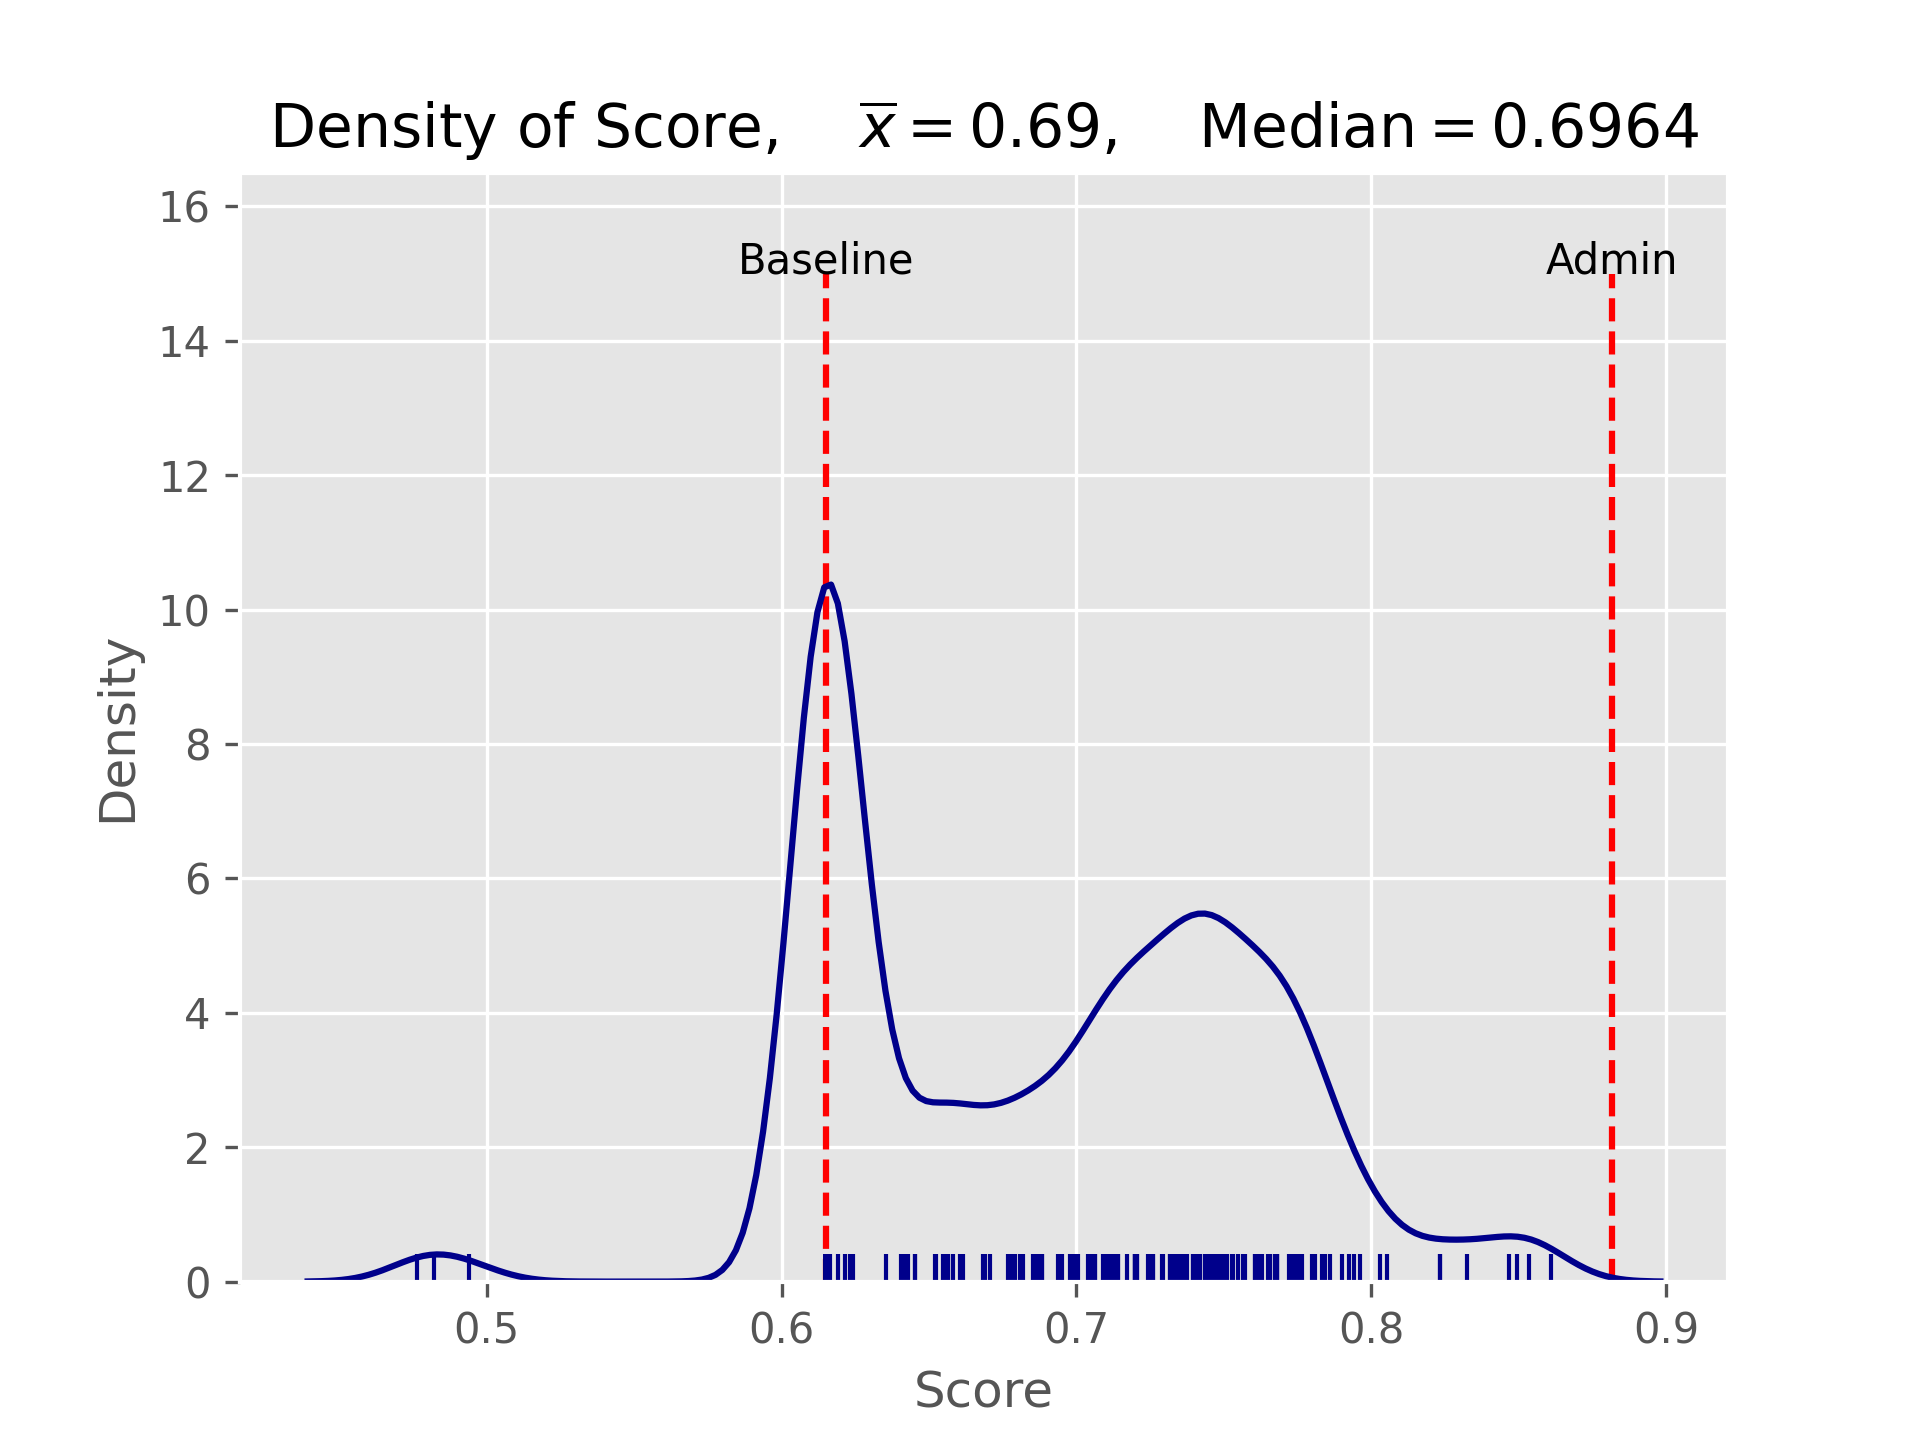
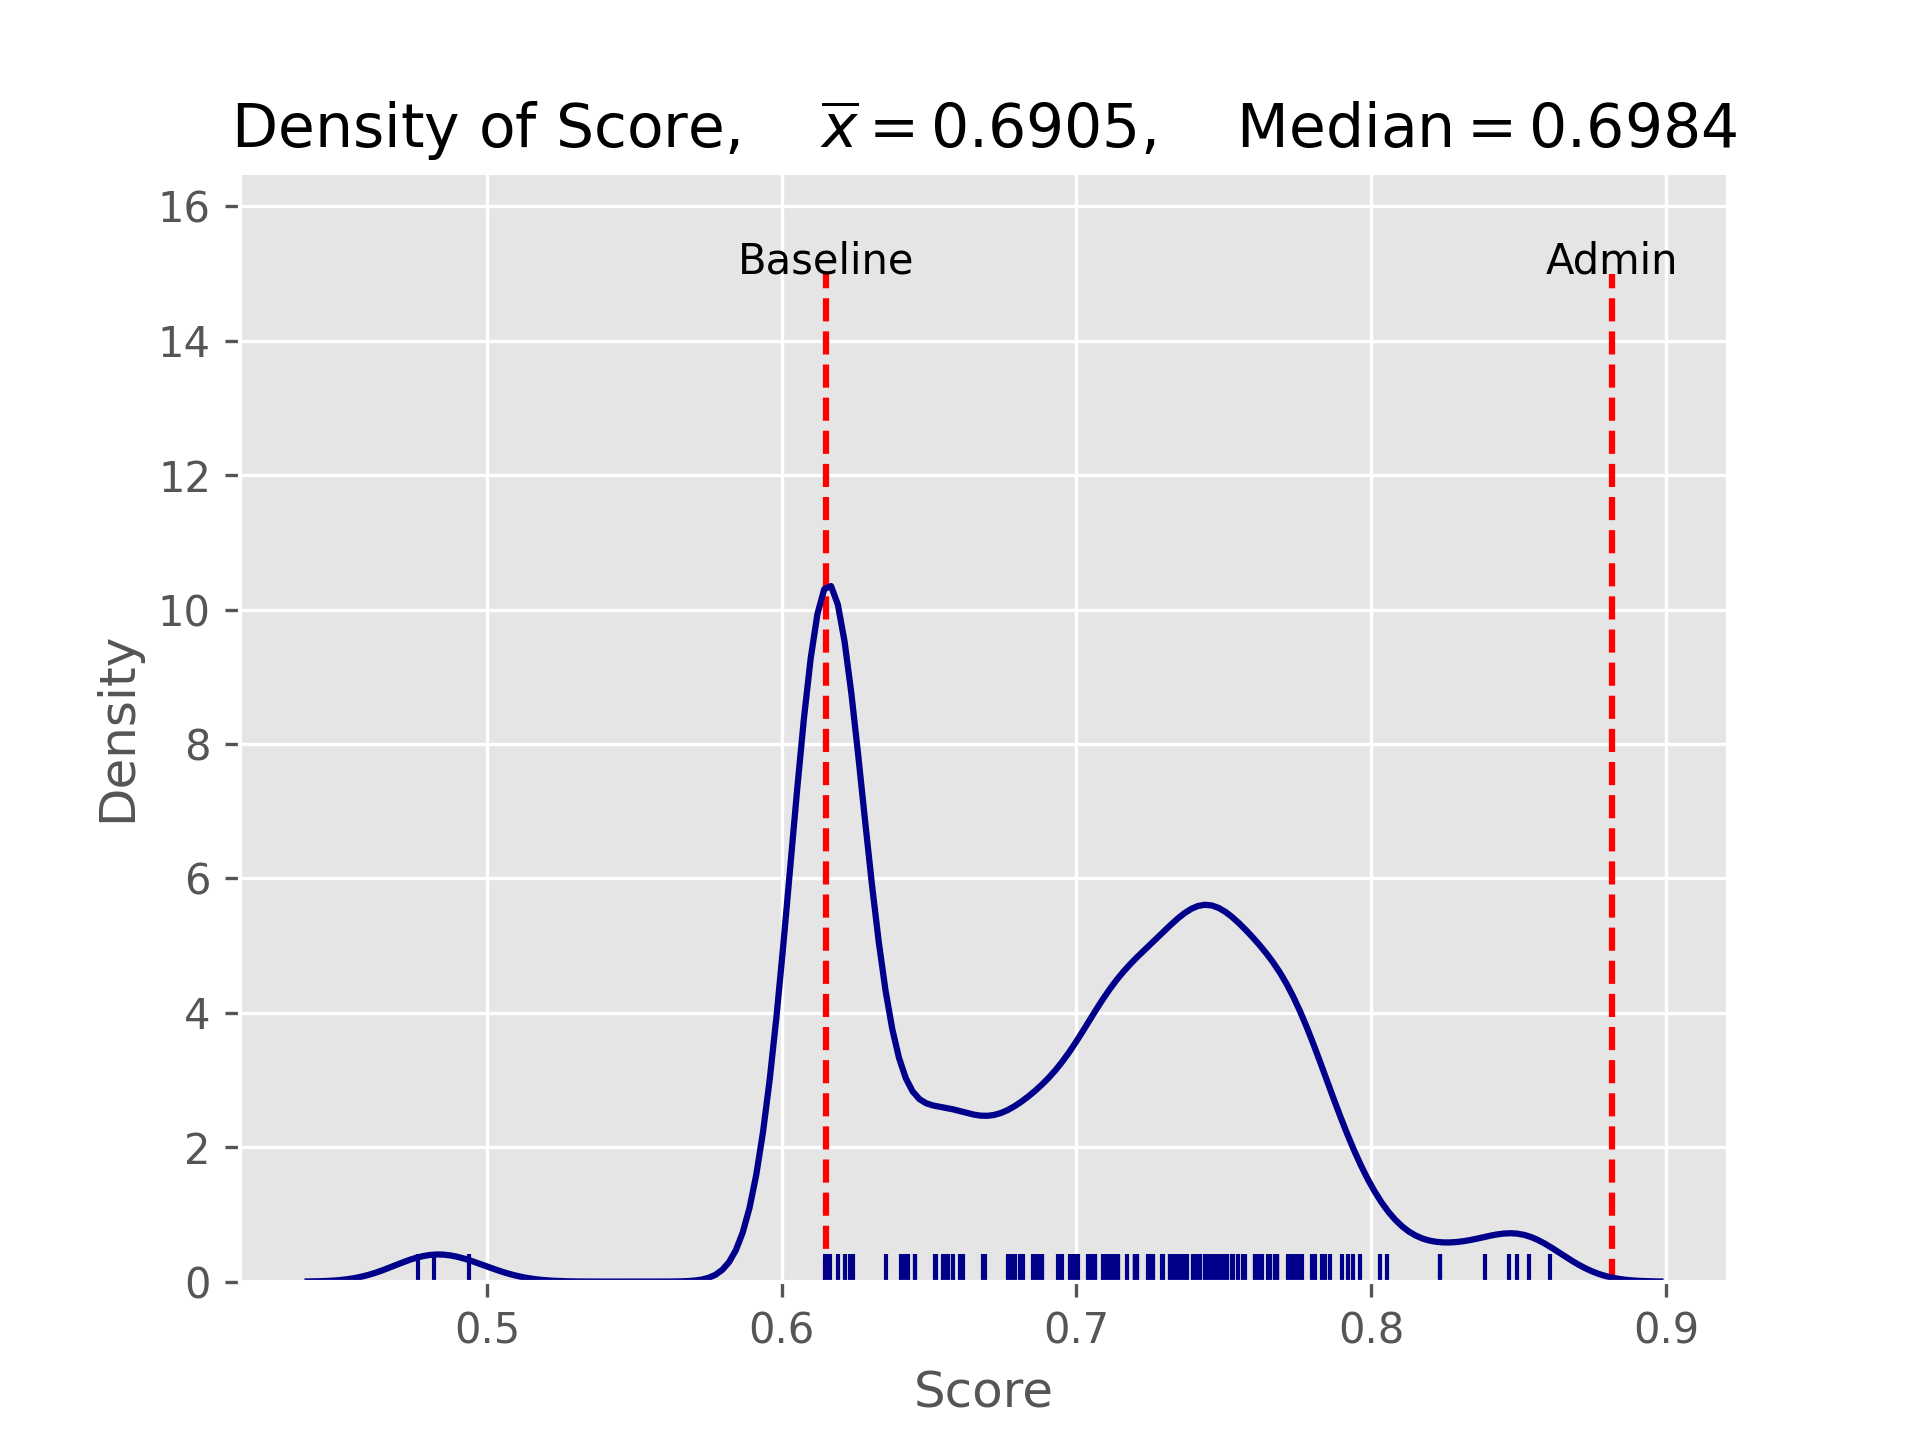
Updated: 2021-05-16 19:52:52

diff --git a/README.md b/README.md
@@ -1,6 +1,6 @@
 # ETC3250 Kaggle score
 
-**Last updated: May 16, 2021 18:15:16**
+**Last updated: May 16, 2021 19:52:52**
 
 ## WARNING: Your final grade is based on your score on the `private leaderboard`. 
 
@@ -24,13 +24,13 @@ Number of teams: 202
 |2|6749482|dzho37|15 May 13:32:47|0.85342|13|
 |3|6754507|Not Admin|16 May 12:25:47|0.84946|13|
 |4|6765261|Real Admin @zyan0056|16 May 16:16:12|0.84663|13|
-|5|6767591|carljohnsonCJ|15 May 18:45:34|0.83248|13|
+|5|6767591|carljohnsonCJ|16 May 19:46:00|0.83870|13|
 |6|6754716|efre0004|15 May 14:41:08|0.82342|13|
 |7|6754129|ghan0002|16 May 15:42:02|0.82342|13|
 |8|6754828|mwjon5|15 May 18:05:18|0.80531|13|
 |9|6749705|zxio0011|16 May 10:09:25|0.80305|13|
 |10|6757633|lbao0008|16 May 16:39:19|0.79626|12|
-|11|6750698|yjia0021|16 May 11:29:39|0.79400|12|
+|11|6750698|yjia0021|16 May 19:17:41|0.79400|12|
 |12|6761625|Le-Hao Jian|15 May 23:01:20|0.79230|12|
 |13|6755904|wtan0062|16 May 15:36:18|0.79003|12|
 |14|6768738|iamnotaduck|11 May 23:10:49|0.78607|12|
@@ -58,83 +58,83 @@ Number of teams: 202
 |36|6754021|ntry0001|15 May 17:16:48|0.76230|11|
 |37|6755781|vwid06|16 May 00:32:58|0.76174|11|
 |38|6750238|zzd|16 May 16:39:33|0.76061|11|
-|39|6755448|jwan0296|14 May 03:01:57|0.76061|11|
+|39|6755448|jwan0296|16 May 18:52:06|0.76061|11|
 |40|6750247|Kevin Tat17|16 May 17:59:48|0.75721|11|
 |41|6754693|xwan0169|14 May 09:20:24|0.75664|11|
 |42|6758694|nhee0002|16 May 15:29:27|0.75495|11|
 |43|6768666|jham0020|13 May 20:07:12|0.75325|11|
 |44|6751555|jwah0003|16 May 16:00:32|0.75268|11|
 |45|6754314|Alexi Tsakis|16 May 14:55:24|0.75099|11|
-|46|6750774|yhua0047|15 May 15:45:06|0.74985|11|
-|47|6759731|Daniel Ong|15 May 22:37:18|0.74985|11|
-|48|6763202|dngu0066|16 May 10:47:47|0.74985|11|
-|49|6768072|Jkan0025|16 May 15:50:00|0.74872|11|
-|50|6754556|sami0006|16 May 16:22:20|0.74759|11|
-|51|6759326|Emily Sheehan|16 May 12:00:11|0.74702|11|
-|52|6750485|Zhongxuan Yin|13 May 14:53:31|0.74646|11|
-|53|6765326|ywan0454|12 May 02:49:19|0.74533|11|
-|54|6764575|jngu0046|16 May 12:45:55|0.74533|11|
-|55|6749461|mkar0012|16 May 14:43:07|0.74476|11|
-|56|6751520|mluk0004|15 May 14:51:58|0.74363|11|
-|57|6756740|psap0002|16 May 17:43:14|0.74193|11|
-|58|6760317|Wliu0044|15 May 20:33:08|0.74193|11|
-|59|6755109|Dea Avega Editya|16 May 14:27:17|0.74136|11|
-|60|6760740|qwan0060|15 May 00:05:05|0.74080|11|
-|61|6753832|hmaus1|14 May 15:03:07|0.73967|11|
-|62|6749310|rtia0007|16 May 10:40:06|0.73967|11|
-|63|6768276|Alex Chou|16 May 00:41:42|0.73740|10|
-|64|6767628|Bo Zhang 3520|16 May 03:33:17|0.73627|10|
-|65|6751334|yzha0275|16 May 00:56:01|0.73627|10|
-|66|6761498|qche0022|15 May 12:23:41|0.73514|10|
-|67|6750514|wwin0001|14 May 23:41:39|0.73401|10|
-|68|6753842|Anqi Luo|15 May 22:26:59|0.73288|10|
-|69|6756315|Qin Zhou 29287170|16 May 15:58:15|0.73288|10|
-|70|6750992|Qimei Yang|16 May 17:28:56|0.73174|10|
-|71|6750996|Lirui Guo|16 May 17:10:31|0.73174|10|
-|72|6767433|ang0004|16 May 10:36:26|0.72948|10|
-|73|6760878|Oblong|14 May 09:53:00|0.72891|10|
-|74|6765541|wtan0001|16 May 15:08:01|0.72608|10|
-|75|6750421|sche0149|16 May 15:36:49|0.72608|10|
-|76|6763455|Ziyue Zhang|15 May 00:26:27|0.72552|10|
-|77|6768117|avon0005|16 May 12:57:45|0.72439|10|
-|78|6766607|vietvo51|16 May 02:35:44|0.72043|10|
-|79|6753551|dorl0002|16 May 12:16:29|0.72043|10|
-|80|6749457|Belgian Pharmacist|16 May 10:09:22|0.71986|10|
-|81|6753813|yzha0633|16 May 18:03:48|0.71986|10|
-|82|6783780|mshi0014|15 May 23:12:40|0.71986|10|
-|83|6749490|fwan0018|15 May 10:03:02|0.71986|10|
-|84|6754678|Ronghao Zhang|14 May 11:34:12|0.71703|10|
-|85|6751234|Guy H Davis|14 May 10:57:28|0.71420|10|
-|86|6751598|hfen27|14 May 13:11:44|0.71420|10|
-|87|6749351|jche0254|15 May 20:30:37|0.71307|10|
-|88|6749366|xwan0160|15 May 21:34:09|0.71307|10|
-|89|6763958|berob5|15 May 18:21:09|0.71194|10|
-|90|6767603|jfer0020|11 May 19:09:43|0.71080|10|
-|91|6767902|wfer0009|15 May 21:57:23|0.71024|10|
-|92|6755522|casco2|15 May 12:16:36|0.71024|10|
-|93|6767378|Arzu Khanna|15 May 17:49:23|0.70911|10|
-|94|6766000|Langtian Cheng|15 May 14:50:06|0.70628|10|
-|95|6762123|Siddhant Tirodkar|16 May 01:55:05|0.70628|10|
-|96|6761828|Ying Zou95|16 May 14:21:41|0.70514|10|
-|97|6760555|zzha0230|13 May 22:31:38|0.70401|10|
-|98|6762592|xyan0048|16 May 17:47:05|0.70062|10|
-|99|6756942|jtho0048|15 May 19:58:12|0.70005|10|
-|100|6762119|Evelyn Budhy Wibowo|15 May 17:22:32|0.69892|10|
-|101|6749287|rwon0005|14 May 19:05:52|0.69779|10|
-|102|6754894|dama0007|16 May 10:32:42|0.69496|10|
-|103|6749412|Monchy|16 May 13:50:11|0.69383|10|
-|104|6782531|jraw0002|16 May 17:04:01|0.68817|10|
-|105|6760529|maam0001|15 May 18:33:08|0.68817|10|
-|106|6768279|Thomas Winson|16 May 15:41:58|0.68704|10|
-|107|6750607|hngo0005|14 May 15:23:32|0.68647|10|
-|108|6753792|Angelina Atanassova|16 May 10:29:10|0.68534|10|
-|109|6759061|Abin John|15 May 11:21:28|0.68194|10|
-|110|6763905|xliu0026|14 May 21:21:37|0.68081|10|
-|111|6762192|abab0012|16 May 16:04:00|0.67911|10|
-|112|6753670|Tran Thanh Han Ha|09 May 18:38:25|0.67798|10|
-|113|6761343|dgar0010|13 May 20:12:53|0.67741|10|
-|114|6749822|John Yan|13 May 22:09:17|0.67685|9|
-|115|6764345|yliu0320|15 May 13:31:48|0.67062|9|
+|46|6764345|yliu0320|16 May 19:42:52|0.75099|11|
+|47|6750774|yhua0047|15 May 15:45:06|0.74985|11|
+|48|6759731|Daniel Ong|15 May 22:37:18|0.74985|11|
+|49|6763202|dngu0066|16 May 10:47:47|0.74985|11|
+|50|6768072|Jkan0025|16 May 15:50:00|0.74872|11|
+|51|6754556|sami0006|16 May 16:22:20|0.74759|11|
+|52|6759326|Emily Sheehan|16 May 12:00:11|0.74702|11|
+|53|6750485|Zhongxuan Yin|13 May 14:53:31|0.74646|11|
+|54|6765326|ywan0454|12 May 02:49:19|0.74533|11|
+|55|6764575|jngu0046|16 May 12:45:55|0.74533|11|
+|56|6749461|mkar0012|16 May 14:43:07|0.74476|11|
+|57|6751520|mluk0004|15 May 14:51:58|0.74363|11|
+|58|6756740|psap0002|16 May 17:43:14|0.74193|11|
+|59|6760317|Wliu0044|15 May 20:33:08|0.74193|11|
+|60|6755109|Dea Avega Editya|16 May 14:27:17|0.74136|11|
+|61|6760740|qwan0060|15 May 00:05:05|0.74080|11|
+|62|6753832|hmaus1|14 May 15:03:07|0.73967|11|
+|63|6749310|rtia0007|16 May 10:40:06|0.73967|11|
+|64|6768276|Alex Chou|16 May 00:41:42|0.73740|10|
+|65|6767628|Bo Zhang 3520|16 May 03:33:17|0.73627|10|
+|66|6751334|yzha0275|16 May 00:56:01|0.73627|10|
+|67|6761498|qche0022|15 May 12:23:41|0.73514|10|
+|68|6750514|wwin0001|14 May 23:41:39|0.73401|10|
+|69|6753842|Anqi Luo|15 May 22:26:59|0.73288|10|
+|70|6756315|Qin Zhou 29287170|16 May 15:58:15|0.73288|10|
+|71|6750992|Qimei Yang|16 May 17:28:56|0.73174|10|
+|72|6750996|Lirui Guo|16 May 17:10:31|0.73174|10|
+|73|6767433|ang0004|16 May 10:36:26|0.72948|10|
+|74|6760878|Oblong|14 May 09:53:00|0.72891|10|
+|75|6765541|wtan0001|16 May 15:08:01|0.72608|10|
+|76|6750421|sche0149|16 May 15:36:49|0.72608|10|
+|77|6763455|Ziyue Zhang|15 May 00:26:27|0.72552|10|
+|78|6768117|avon0005|16 May 12:57:45|0.72439|10|
+|79|6766607|vietvo51|16 May 02:35:44|0.72043|10|
+|80|6753551|dorl0002|16 May 12:16:29|0.72043|10|
+|81|6749457|Belgian Pharmacist|16 May 10:09:22|0.71986|10|
+|82|6753813|yzha0633|16 May 18:03:48|0.71986|10|
+|83|6783780|mshi0014|15 May 23:12:40|0.71986|10|
+|84|6749490|fwan0018|15 May 10:03:02|0.71986|10|
+|85|6754678|Ronghao Zhang|14 May 11:34:12|0.71703|10|
+|86|6751234|Guy H Davis|14 May 10:57:28|0.71420|10|
+|87|6751598|hfen27|14 May 13:11:44|0.71420|10|
+|88|6749351|jche0254|15 May 20:30:37|0.71307|10|
+|89|6749366|xwan0160|15 May 21:34:09|0.71307|10|
+|90|6763958|berob5|15 May 18:21:09|0.71194|10|
+|91|6767603|jfer0020|11 May 19:09:43|0.71080|10|
+|92|6767902|wfer0009|16 May 19:33:58|0.71024|10|
+|93|6755522|casco2|15 May 12:16:36|0.71024|10|
+|94|6767378|Arzu Khanna|15 May 17:49:23|0.70911|10|
+|95|6766000|Langtian Cheng|15 May 14:50:06|0.70628|10|
+|96|6762123|Siddhant Tirodkar|16 May 01:55:05|0.70628|10|
+|97|6761828|Ying Zou95|16 May 14:21:41|0.70514|10|
+|98|6760555|zzha0230|13 May 22:31:38|0.70401|10|
+|99|6762592|xyan0048|16 May 17:47:05|0.70062|10|
+|100|6756942|jtho0048|15 May 19:58:12|0.70005|10|
+|101|6762119|Evelyn Budhy Wibowo|15 May 17:22:32|0.69892|10|
+|102|6749287|rwon0005|14 May 19:05:52|0.69779|10|
+|103|6754894|dama0007|16 May 10:32:42|0.69496|10|
+|104|6749412|Monchy|16 May 13:50:11|0.69383|10|
+|105|6782531|jraw0002|16 May 17:04:01|0.68817|10|
+|106|6760529|maam0001|15 May 18:33:08|0.68817|10|
+|107|6768279|Thomas Winson|16 May 15:41:58|0.68704|10|
+|108|6750607|hngo0005|14 May 15:23:32|0.68647|10|
+|109|6753792|Angelina Atanassova|16 May 10:29:10|0.68534|10|
+|110|6759061|Abin John|16 May 18:23:39|0.68194|10|
+|111|6763905|xliu0026|14 May 21:21:37|0.68081|10|
+|112|6762192|abab0012|16 May 16:04:00|0.67911|10|
+|113|6753670|Tran Thanh Han Ha|09 May 18:38:25|0.67798|10|
+|114|6761343|dgar0010|13 May 20:12:53|0.67741|10|
+|115|6749822|John Yan|13 May 22:09:17|0.67685|9|
 |116|6753817|JiaPeng0106|10 May 13:28:44|0.66893|9|
 |117|6805182|zzy0023|16 May 17:21:26|0.66836|9|
 |118|6758921|Zhijun Li/zlii0231|16 May 14:07:39|0.66157|9|
@@ -165,7 +165,7 @@ Number of teams: 202
 |143|6751310|Cpen0009|16 May 01:16:05|0.61516|<=7|
 |144|6753687|Juliette101|16 May 13:51:41|0.61516|<=7|
 |145|6754262|Namrata Goel|07 May 13:16:59|0.61516|<=7|
-|146|6754439|cyee0011|14 May 00:52:46|0.61516|<=7|
+|146|6754439|cyee0011|16 May 19:30:25|0.61516|<=7|
 |147|6754610|dvek0001|16 May 17:47:55|0.61516|<=7|
 |148|6754890|ctin0006|07 May 17:54:53|0.61516|<=7|
 |149|6756637|lqia0006|13 May 01:38:41|0.61516|<=7|
@@ -186,7 +186,7 @@ Number of teams: 202
 |164|6762642|rals0003|15 May 23:50:53|0.61516|<=7|
 |165|6763027|panagiotis stylianos|09 May 07:03:18|0.61516|<=7|
 |166|6760102|Yuheng Cui|09 May 13:49:20|0.61516|<=7|
-|167|6753957|Matthew Willaton|14 May 12:08:05|0.61516|<=7|
+|167|6753957|Matthew Willaton|16 May 18:40:21|0.61516|<=7|
 |168|6764303|fpso0001|15 May 22:51:55|0.61516|<=7|
 |169|6756077|walh0002|16 May 17:38:54|0.61516|<=7|
 |170|6765299|zyliu16|09 May 21:30:54|0.61516|<=7|
